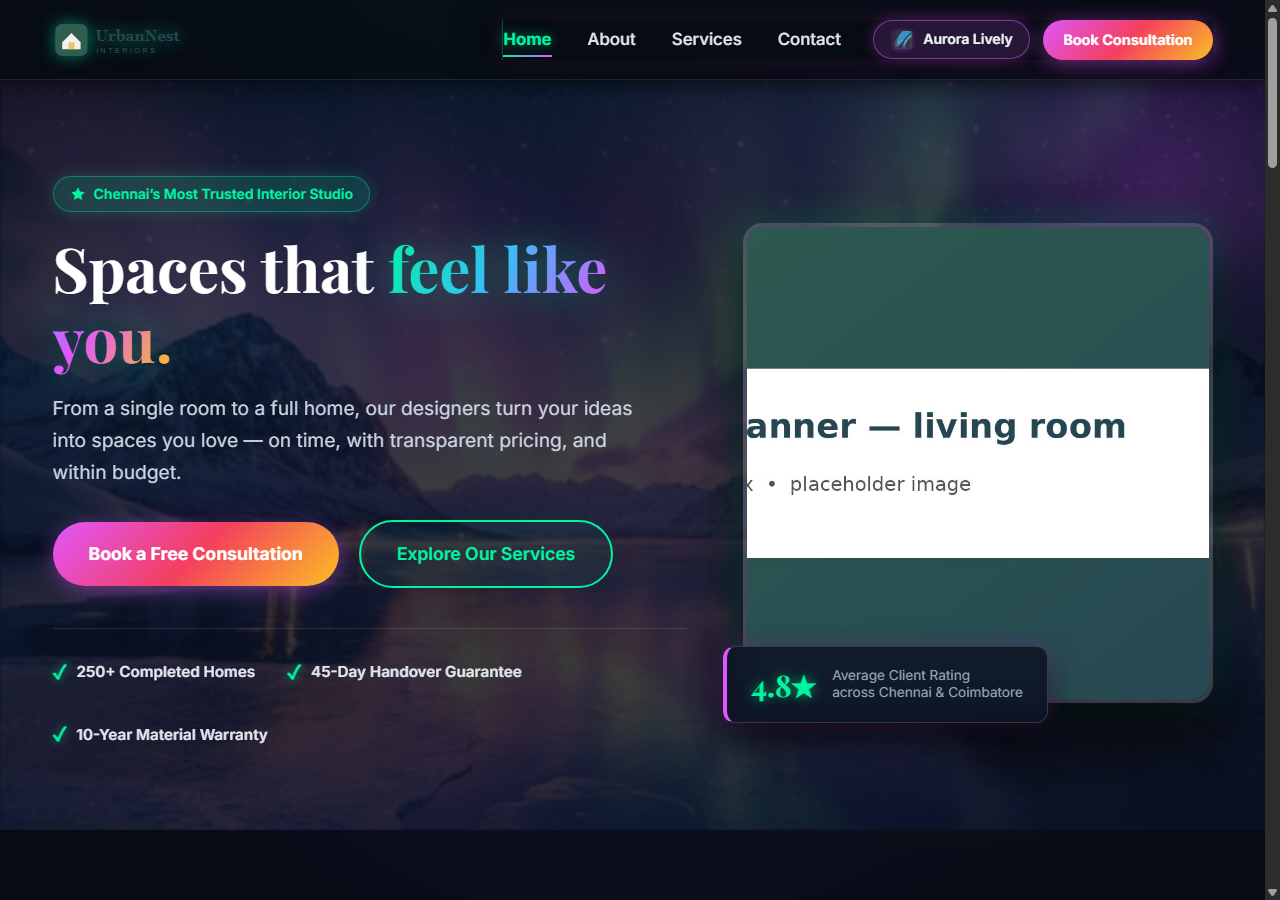
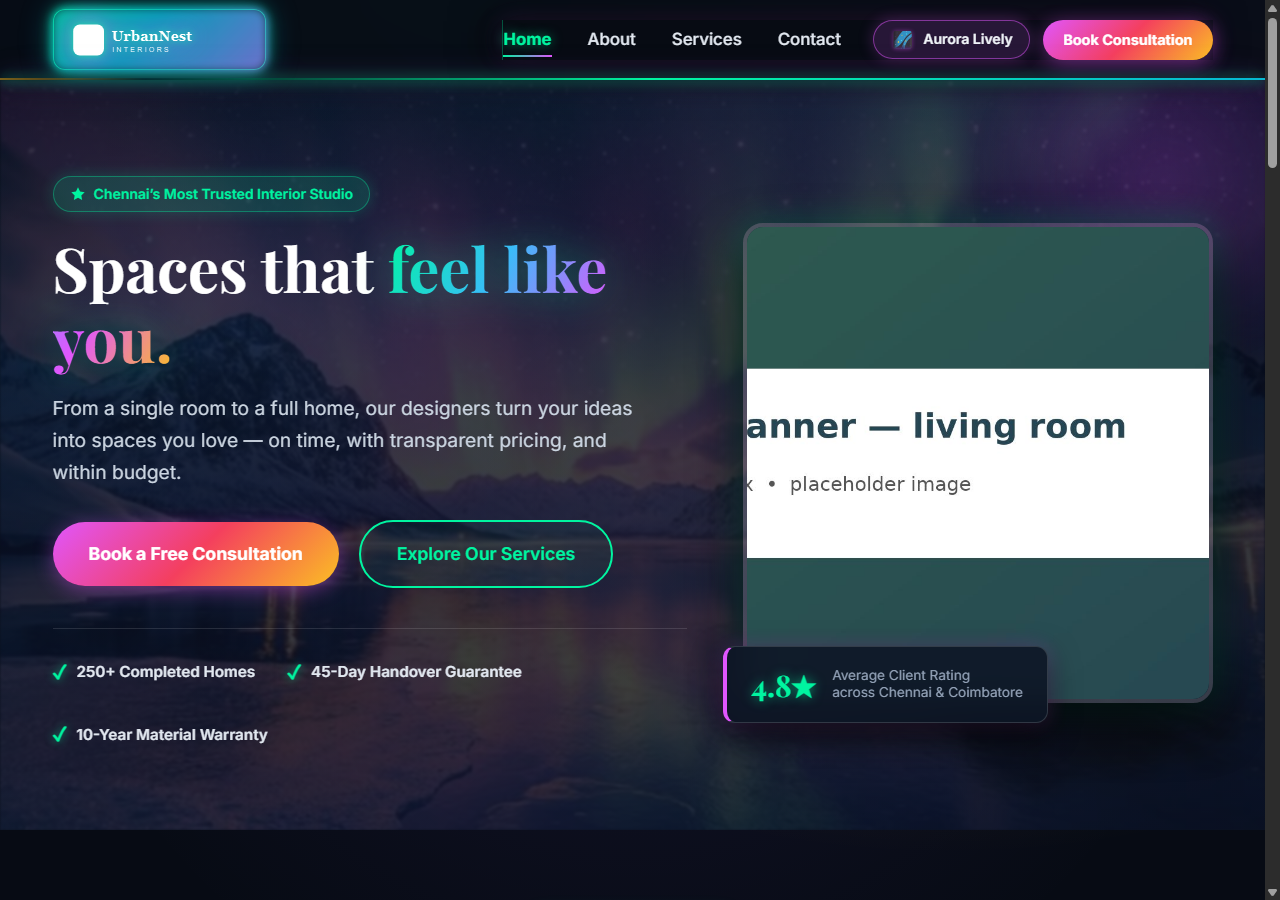
style: add radiant Aurora outline and glow effects to navbar and UrbanNest Interiors brand badge

Changed region(s): [[0.0, 0.0, 1.0, 0.1244]]

diff --git a/css/style.css b/css/style.css
@@ -302,15 +302,28 @@ main {
 }
 
 .logo-link {
-  display: flex;
+  display: inline-flex;
   align-items: center;
   gap: 0.75rem;
+  padding: 0.4rem 0.9rem;
+  border-radius: var(--radius-md);
+  border: 1.5px solid rgba(47, 93, 80, 0.18);
+  background: rgba(255, 255, 255, 0.6);
+  backdrop-filter: blur(8px);
+  -webkit-backdrop-filter: blur(8px);
+  transition: all var(--transition-base);
+  text-decoration: none;
+}
+
+.logo-link:hover {
+  border-color: var(--color-accent);
+  box-shadow: 0 4px 14px rgba(233, 196, 106, 0.35);
 }
 
 .logo-img {
-  height: 46px;
+  height: 44px;
   width: auto;
-  transition: transform var(--transition-fast);
+  transition: transform var(--transition-fast), filter var(--transition-base);
 }
 
 .logo-link:hover .logo-img {
@@ -2178,20 +2191,134 @@ textarea.form-control {
   color: #F1F5F9;
 }
 
-/* Top site header in Aurora mode */
+/* Top site header with glowing Aurora outline stream in Aurora mode */
 [data-theme="aurora"] .site-header {
-  background-color: rgba(7, 11, 20, 0.85);
-  border-bottom: 1px solid rgba(255, 255, 255, 0.1);
-  box-shadow: 0 4px 20px rgba(0, 0, 0, 0.5);
+  position: sticky;
+  top: 0;
+  background-color: rgba(7, 11, 20, 0.88);
+  backdrop-filter: blur(20px);
+  -webkit-backdrop-filter: blur(20px);
+  border-bottom: 1.5px solid transparent;
+  box-shadow: 0 4px 25px rgba(0, 0, 0, 0.6), 0 0 20px rgba(0, 245, 160, 0.15);
 }
 
 [data-theme="aurora"] .site-header.scrolled {
-  background-color: rgba(7, 11, 20, 0.95);
-  box-shadow: 0 8px 30px rgba(0, 0, 0, 0.6), 0 0 15px rgba(0, 245, 160, 0.15);
+  background-color: rgba(7, 11, 20, 0.96);
+  box-shadow: 0 8px 30px rgba(0, 0, 0, 0.7), 0 0 25px rgba(0, 245, 160, 0.25);
+}
+
+/* Glowing Aurora outline stream on the navbar bottom matching the background */
+[data-theme="aurora"] .site-header::after {
+  content: '';
+  position: absolute;
+  bottom: -1px;
+  left: 0;
+  width: 100%;
+  height: 2.5px;
+  background: linear-gradient(90deg, 
+    transparent 0%, 
+    #00F5A0 20%, 
+    #06B6D4 45%, 
+    #E056FD 70%, 
+    #FBBF24 88%, 
+    transparent 100%);
+  background-size: 200% 100%;
+  animation: navbarAuroraStream 7s linear infinite;
+  box-shadow: 
+    0 0 12px rgba(0, 245, 160, 0.85),
+    0 0 25px rgba(224, 86, 253, 0.65),
+    0 0 35px rgba(6, 182, 212, 0.4);
+  pointer-events: none;
+}
+
+@keyframes navbarAuroraStream {
+  0% { background-position: 200% 0; }
+  100% { background-position: -200% 0; }
+}
+
+/* Glowing Aurora outline on UrbanNest Interiors brand badge */
+[data-theme="aurora"] .logo-link {
+  background: rgba(13, 20, 36, 0.85);
+  backdrop-filter: blur(16px);
+  -webkit-backdrop-filter: blur(16px);
+  padding: 0.45rem 1.1rem;
+  border-radius: var(--radius-md);
+  position: relative;
+  border: 1.5px solid rgba(0, 245, 160, 0.6);
+  box-shadow: 
+    0 0 16px rgba(0, 245, 160, 0.45),
+    0 0 32px rgba(224, 86, 253, 0.3),
+    inset 0 0 14px rgba(0, 245, 160, 0.15);
+  animation: logoAuroraOutlineGlow 4.5s infinite alternate ease-in-out;
+}
+
+/* Rotating ambient neon aura behind the logo */
+[data-theme="aurora"] .logo-link::before {
+  content: '';
+  position: absolute;
+  inset: -2px;
+  border-radius: calc(var(--radius-md) + 2px);
+  background: linear-gradient(135deg, 
+    #00F5A0 0%, 
+    #06B6D4 25%, 
+    #E056FD 60%, 
+    #FBBF24 90%, 
+    #00F5A0 100%);
+  background-size: 300% 300%;
+  animation: auroraBorderRotate 6s linear infinite;
+  z-index: -1;
+  opacity: 0.85;
+  filter: blur(4px);
+}
+
+@keyframes logoAuroraOutlineGlow {
+  0% {
+    border-color: rgba(0, 245, 160, 0.85);
+    box-shadow: 
+      0 0 16px rgba(0, 245, 160, 0.6),
+      0 0 32px rgba(6, 182, 212, 0.4),
+      inset 0 0 12px rgba(0, 245, 160, 0.25);
+  }
+  50% {
+    border-color: rgba(224, 86, 253, 0.9);
+    box-shadow: 
+      0 0 20px rgba(224, 86, 253, 0.65),
+      0 0 38px rgba(244, 63, 94, 0.45),
+      inset 0 0 14px rgba(224, 86, 253, 0.25);
+  }
+  100% {
+    border-color: rgba(251, 191, 36, 0.85);
+    box-shadow: 
+      0 0 18px rgba(251, 191, 36, 0.55),
+      0 0 35px rgba(0, 245, 160, 0.45),
+      inset 0 0 12px rgba(251, 191, 36, 0.2);
+  }
+}
+
+@keyframes auroraBorderRotate {
+  0% { background-position: 0% 50%; }
+  50% { background-position: 100% 50%; }
+  100% { background-position: 0% 50%; }
+}
+
+[data-theme="aurora"] .logo-link:hover {
+  transform: translateY(-2px) scale(1.03);
+  box-shadow: 
+    0 0 25px rgba(0, 245, 160, 0.85),
+    0 0 50px rgba(224, 86, 253, 0.65),
+    inset 0 0 20px rgba(0, 245, 160, 0.4);
 }
 
 [data-theme="aurora"] .logo-img {
-  filter: drop-shadow(0 0 8px rgba(0, 245, 160, 0.5));
+  filter: brightness(0) invert(1) 
+          drop-shadow(0 0 4px rgba(0, 245, 160, 0.9)) 
+          drop-shadow(0 0 12px rgba(224, 86, 253, 0.7));
+}
+
+[data-theme="aurora"] .logo-link:hover .logo-img {
+  filter: brightness(0) invert(1) 
+          drop-shadow(0 0 8px rgba(0, 245, 160, 1)) 
+          drop-shadow(0 0 20px rgba(224, 86, 253, 0.9));
 }
 
 [data-theme="aurora"] .nav-link {
